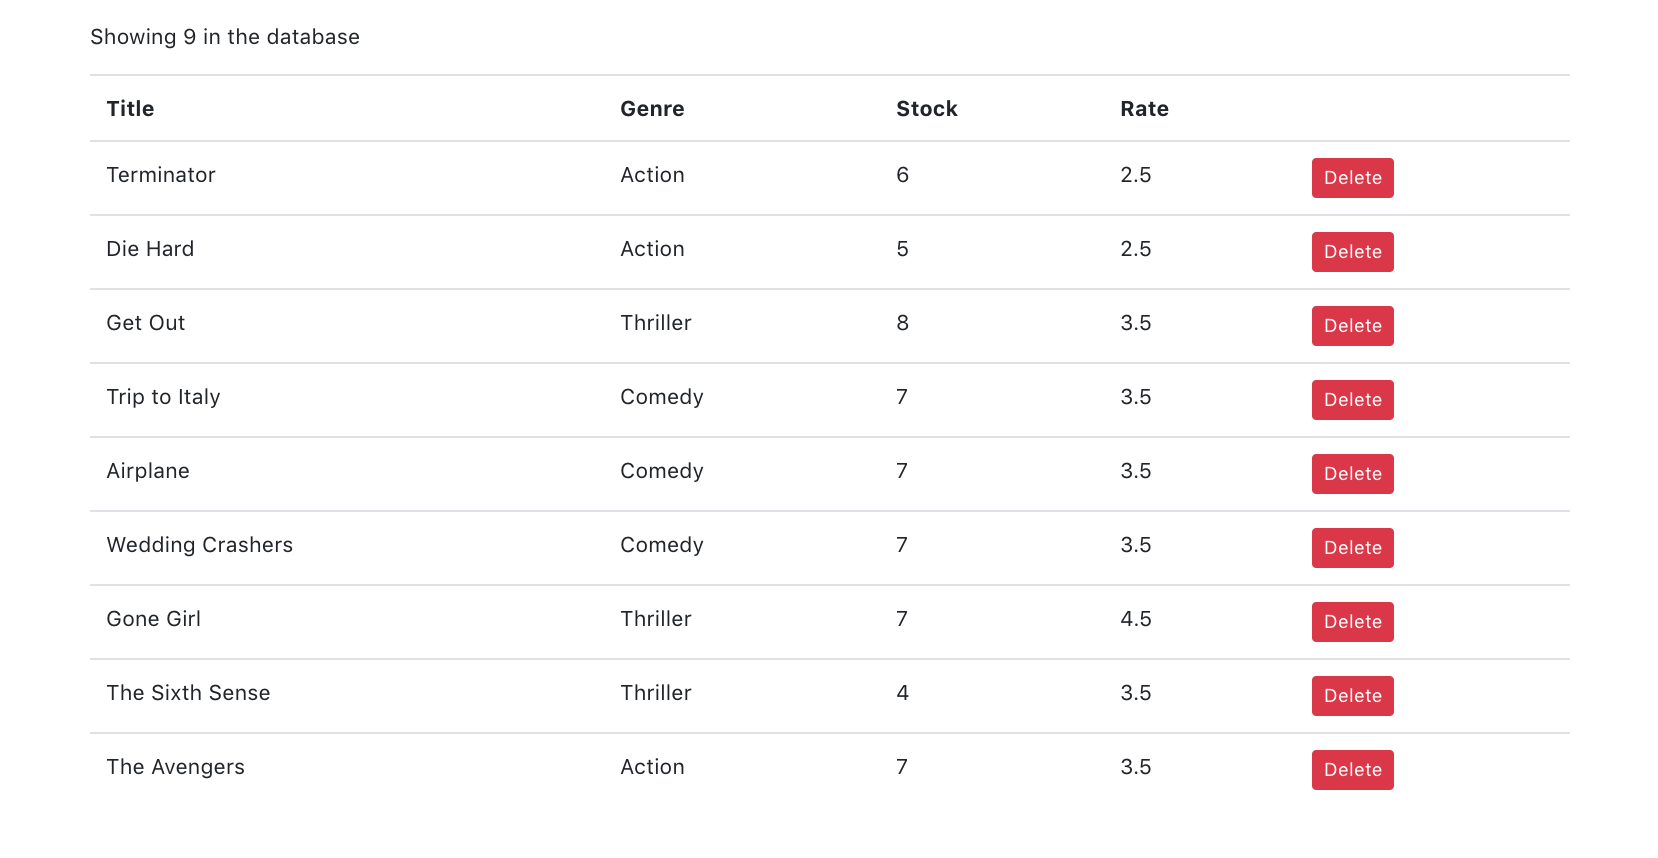
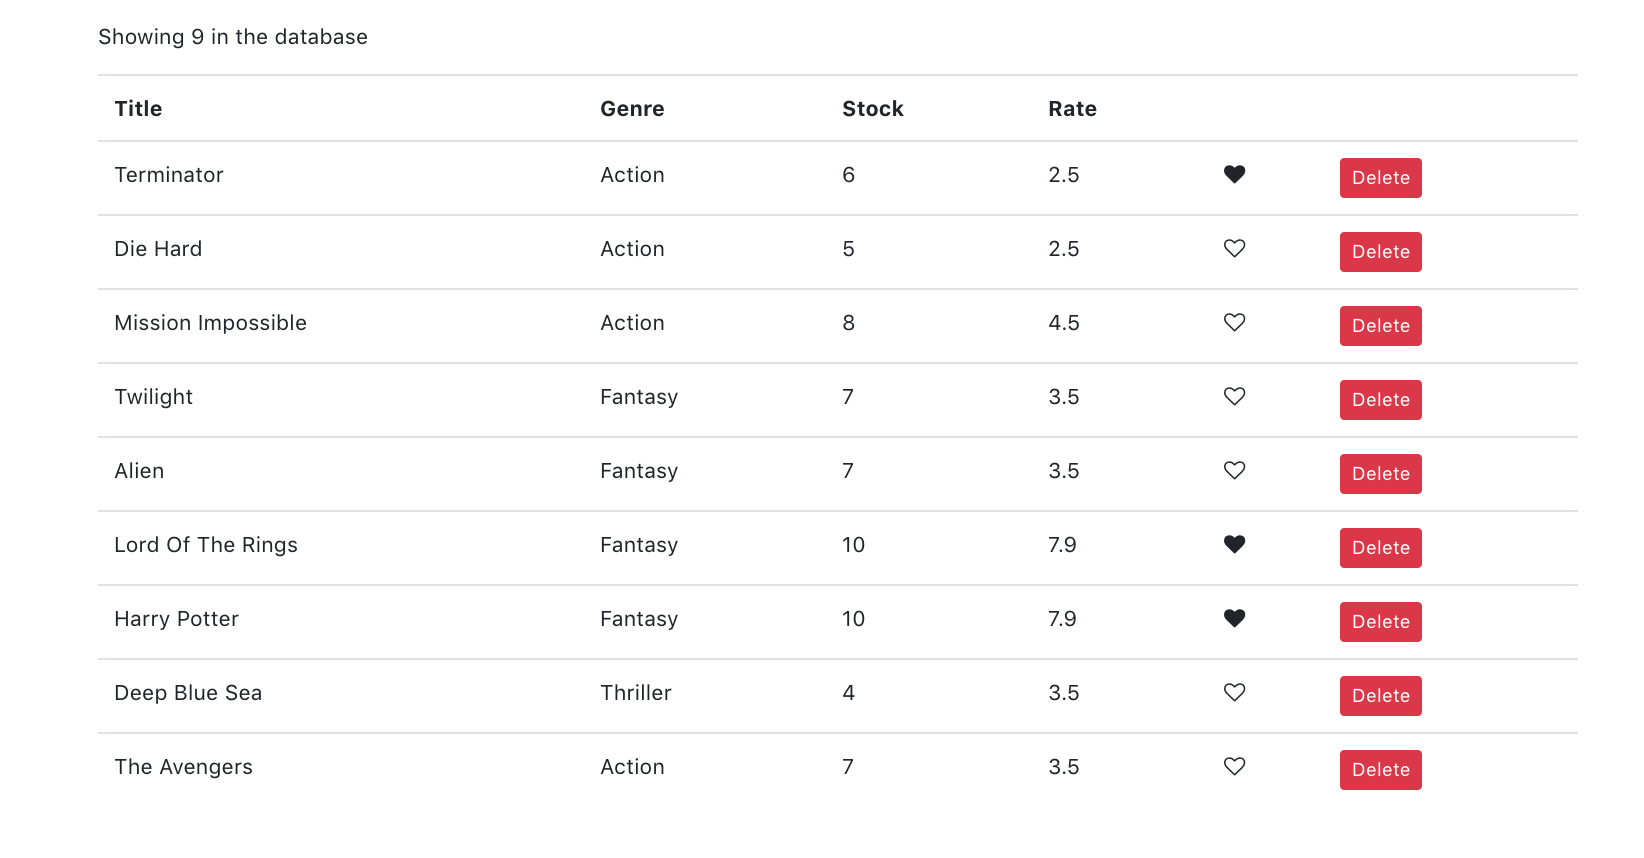
implemented like component

diff --git a/src/services/fakeMovieService.js b/src/services/fakeMovieService.js
@@ -7,63 +7,72 @@ const movies = [
     genre: { _id: "5b21ca3eeb7f6fbccd471818", name: "Action" },
     numberInStock: 6,
     dailyRentalRate: 2.5,
-    publishDate: "2018-01-03T19:04:28.809Z"
+    publishDate: "2018-01-03T19:04:28.809Z",
+      liked: true
   },
   {
     _id: "5b21ca3eeb7f6fbccd471816",
     title: "Die Hard",
     genre: { _id: "5b21ca3eeb7f6fbccd471818", name: "Action" },
     numberInStock: 5,
-    dailyRentalRate: 2.5
+    dailyRentalRate: 2.5,
+      liked: false
   },
   {
     _id: "5b21ca3eeb7f6fbccd471817",
-    title: "Get Out",
-    genre: { _id: "5b21ca3eeb7f6fbccd471820", name: "Thriller" },
+    title: "Mission Impossible",
+    genre: { _id: "5b21ca3eeb7f6fbccd471820", name: "Action" },
     numberInStock: 8,
-    dailyRentalRate: 3.5
+    dailyRentalRate: 4.5,
+      liked: false
   },
   {
     _id: "5b21ca3eeb7f6fbccd471819",
-    title: "Trip to Italy",
-    genre: { _id: "5b21ca3eeb7f6fbccd471814", name: "Comedy" },
+    title: "Twilight",
+    genre: { _id: "5b21ca3eeb7f6fbccd471814", name: "Fantasy" },
     numberInStock: 7,
-    dailyRentalRate: 3.5
+    dailyRentalRate: 3.5,
+      liked: false
   },
   {
     _id: "5b21ca3eeb7f6fbccd47181a",
-    title: "Airplane",
-    genre: { _id: "5b21ca3eeb7f6fbccd471814", name: "Comedy" },
+    title: "Alien",
+    genre: { _id: "5b21ca3eeb7f6fbccd471814", name: "Fantasy" },
     numberInStock: 7,
-    dailyRentalRate: 3.5
+    dailyRentalRate: 3.5,
+      liked: false
   },
   {
     _id: "5b21ca3eeb7f6fbccd47181b",
-    title: "Wedding Crashers",
-    genre: { _id: "5b21ca3eeb7f6fbccd471814", name: "Comedy" },
-    numberInStock: 7,
-    dailyRentalRate: 3.5
+    title: "Lord Of The Rings",
+    genre: { _id: "5b21ca3eeb7f6fbccd471814", name: "Fantasy" },
+    numberInStock: 10,
+    dailyRentalRate: 7.9,
+      liked: true
   },
   {
     _id: "5b21ca3eeb7f6fbccd47181e",
-    title: "Gone Girl",
-    genre: { _id: "5b21ca3eeb7f6fbccd471820", name: "Thriller" },
-    numberInStock: 7,
-    dailyRentalRate: 4.5
+    title: "Harry Potter",
+    genre: { _id: "5b21ca3eeb7f6fbccd471820", name: "Fantasy" },
+    numberInStock: 10,
+    dailyRentalRate: 7.9,
+      liked: true
   },
   {
     _id: "5b21ca3eeb7f6fbccd47181f",
-    title: "The Sixth Sense",
+    title: "Deep Blue Sea",
     genre: { _id: "5b21ca3eeb7f6fbccd471820", name: "Thriller" },
     numberInStock: 4,
-    dailyRentalRate: 3.5
+    dailyRentalRate: 3.5,
+      liked: false
   },
   {
     _id: "5b21ca3eeb7f6fbccd471821",
     title: "The Avengers",
     genre: { _id: "5b21ca3eeb7f6fbccd471818", name: "Action" },
     numberInStock: 7,
-    dailyRentalRate: 3.5
+    dailyRentalRate: 3.5,
+      liked: false
   }
 ];
 

diff --git a/src/components/movies.js b/src/components/movies.js
@@ -1,5 +1,6 @@
 import React, {Component} from 'react';
 import {getMovies} from "../services/fakeMovieService";
+import Like from '../components/common/like';
 
 class Movies extends Component {
     state = {
@@ -8,6 +9,16 @@ class Movies extends Component {
 
     handleDelete = (movie) => {
         const movies = this.state.movies.filter(item => item._id !== movie._id);
+        this.setState({
+            movies
+        })
+    };
+
+    handleLike = (movie) => {
+        const movies = [...this.state.movies];
+        const index = movies.indexOf(movie);
+        movies[index] = { ...movies[index] };
+        movies[index].liked = !movies[index].liked;
         this.setState({
             movies
         })
@@ -27,7 +38,8 @@ class Movies extends Component {
                         <th>Genre</th>
                         <th>Stock</th>
                         <th>Rate</th>
-                        <th></th>
+                        <th />
+                        <th />
                     </tr>
                     </thead>
                     <tbody>
@@ -37,6 +49,11 @@ class Movies extends Component {
                             <td>{movie.genre.name}</td>
                             <td>{movie.numberInStock}</td>
                             <td>{movie.dailyRentalRate}</td>
+                            <td>
+                                <Like
+                                    liked={movie.liked}
+                                    onClick={() => this.handleLike(movie)} />
+                            </td>
                             <td>
                                 <button
                                 onClick={() => this.handleDelete(movie)}

diff --git a/src/components/common/like.js b/src/components/common/like.js
@@ -1,0 +1,22 @@
+import React, {Component} from 'react';
+
+class Like extends Component {
+    render() {
+        let classes = 'fa fa-heart';
+        if (!this.props.liked) {
+            classes += '-o'
+        }
+
+        return (
+            <div>
+                <i
+                    onClick={this.props.onClick}
+                    style={{cursor:'pointer'}}
+                    className={classes}
+                    aria-hidden='true' />
+            </div>
+        );
+    }
+}
+
+export default Like;

diff --git a/src/services/fakeGenreService.js b/src/services/fakeGenreService.js
@@ -1,6 +1,6 @@
 export const genres = [
   { _id: "5b21ca3eeb7f6fbccd471818", name: "Action" },
-  { _id: "5b21ca3eeb7f6fbccd471814", name: "Comedy" },
+  { _id: "5b21ca3eeb7f6fbccd471814", name: "Fantasy" },
   { _id: "5b21ca3eeb7f6fbccd471820", name: "Thriller" }
 ];
 
